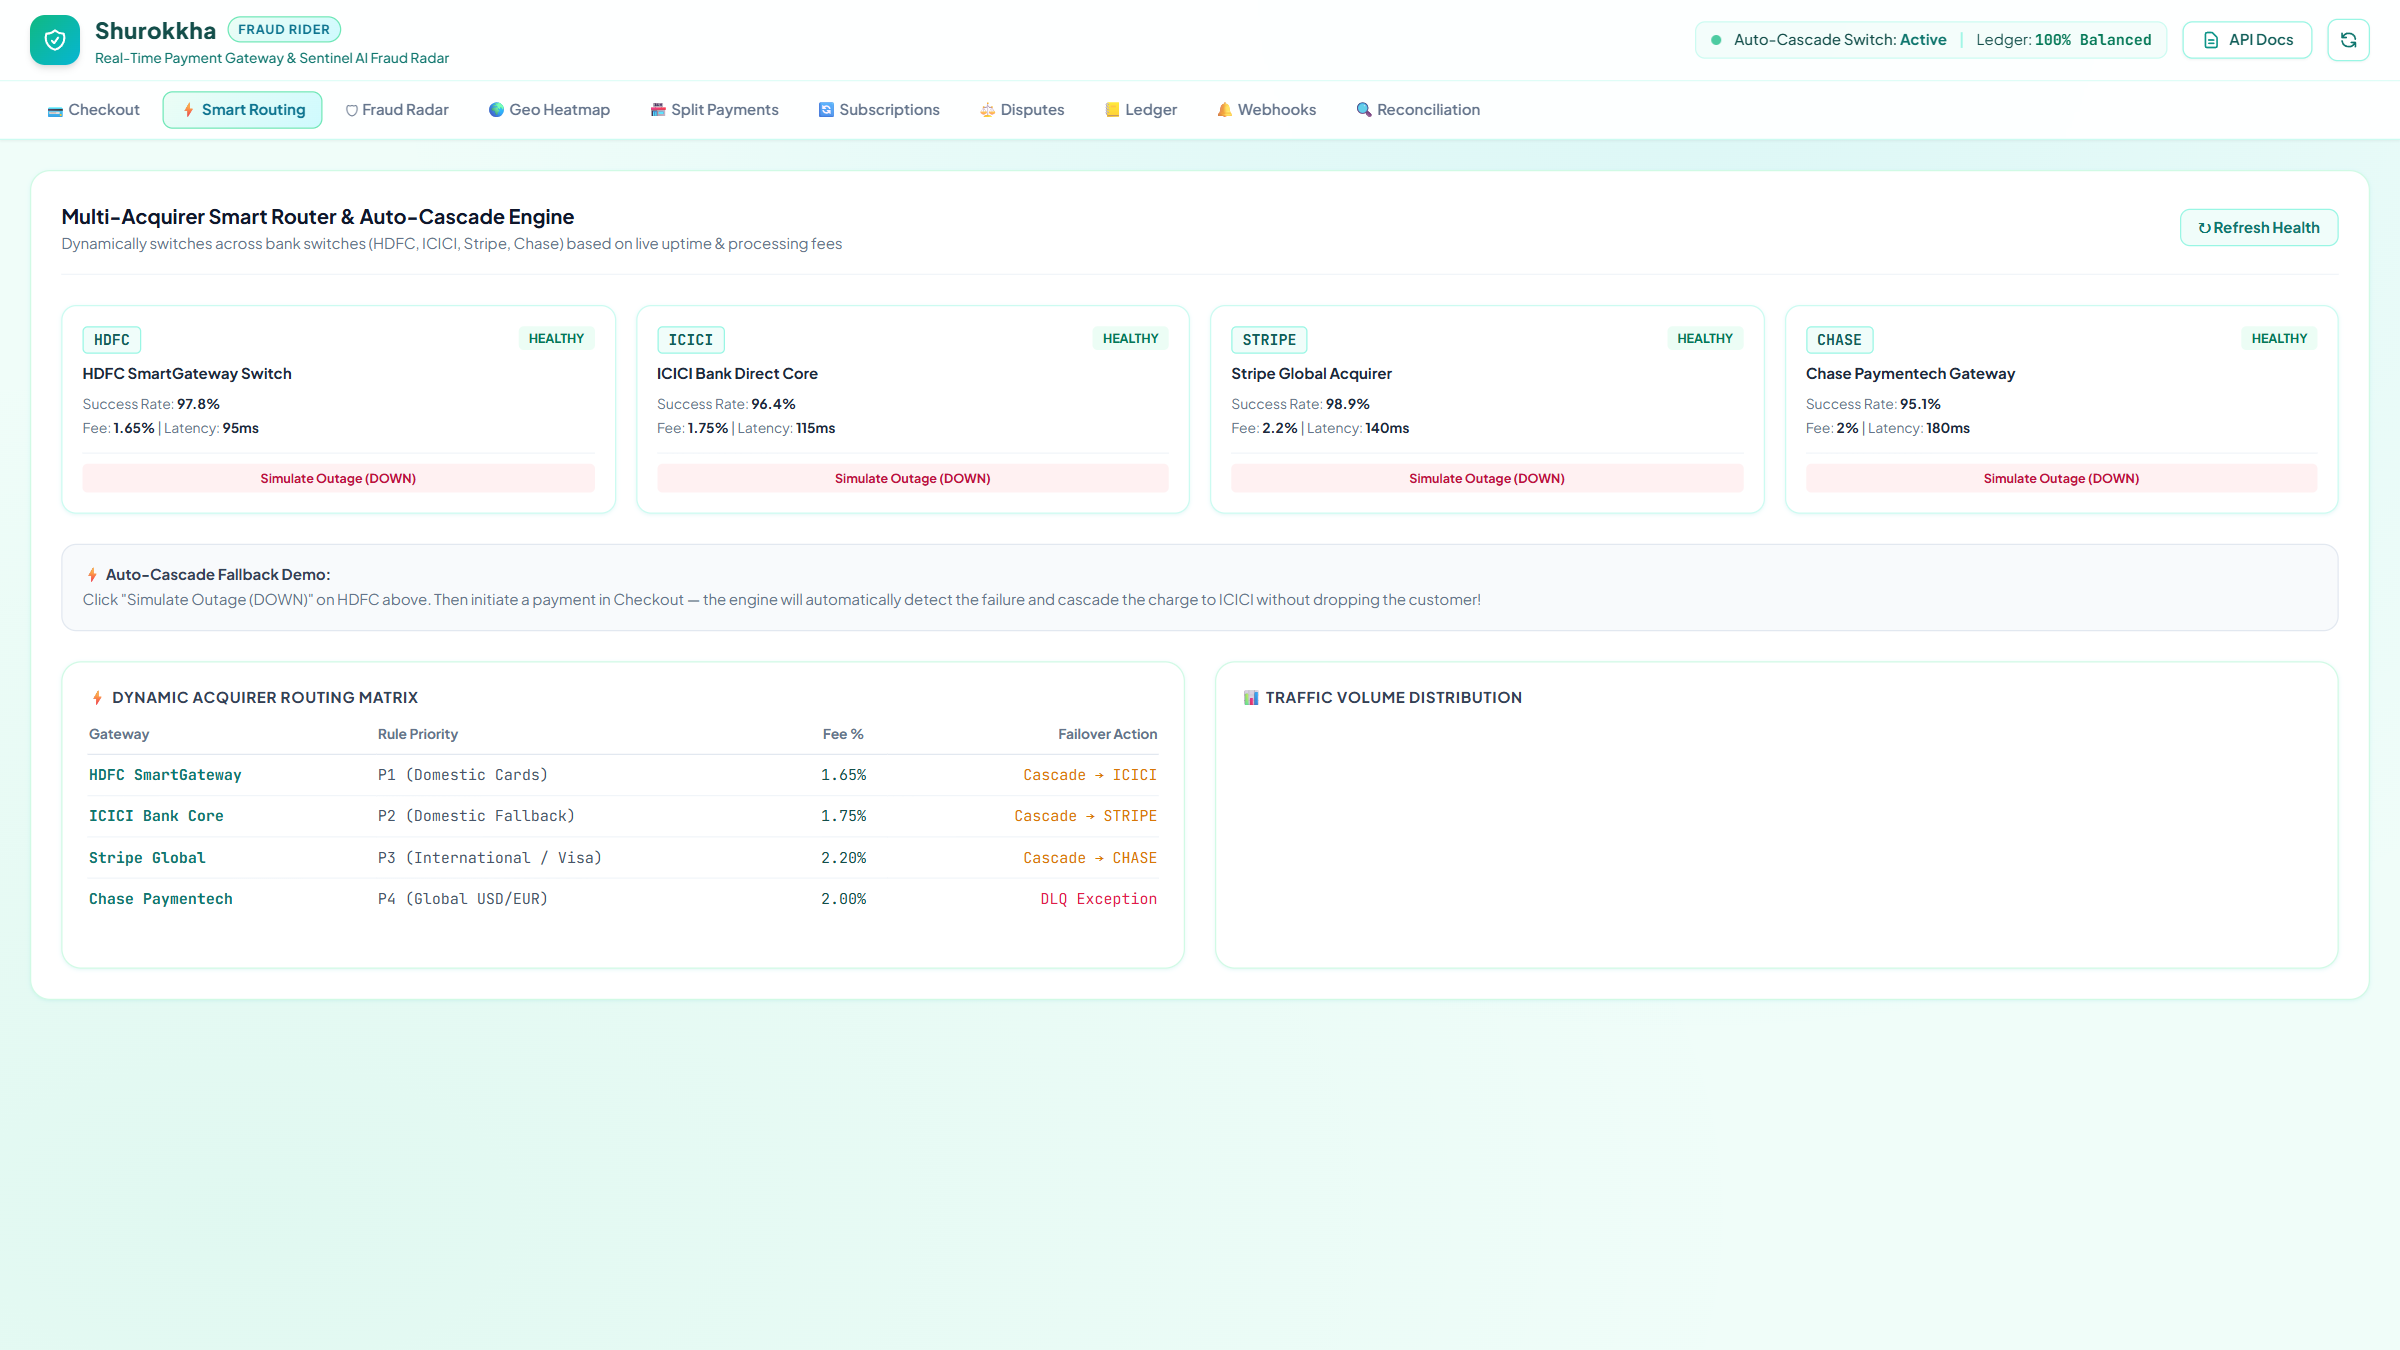
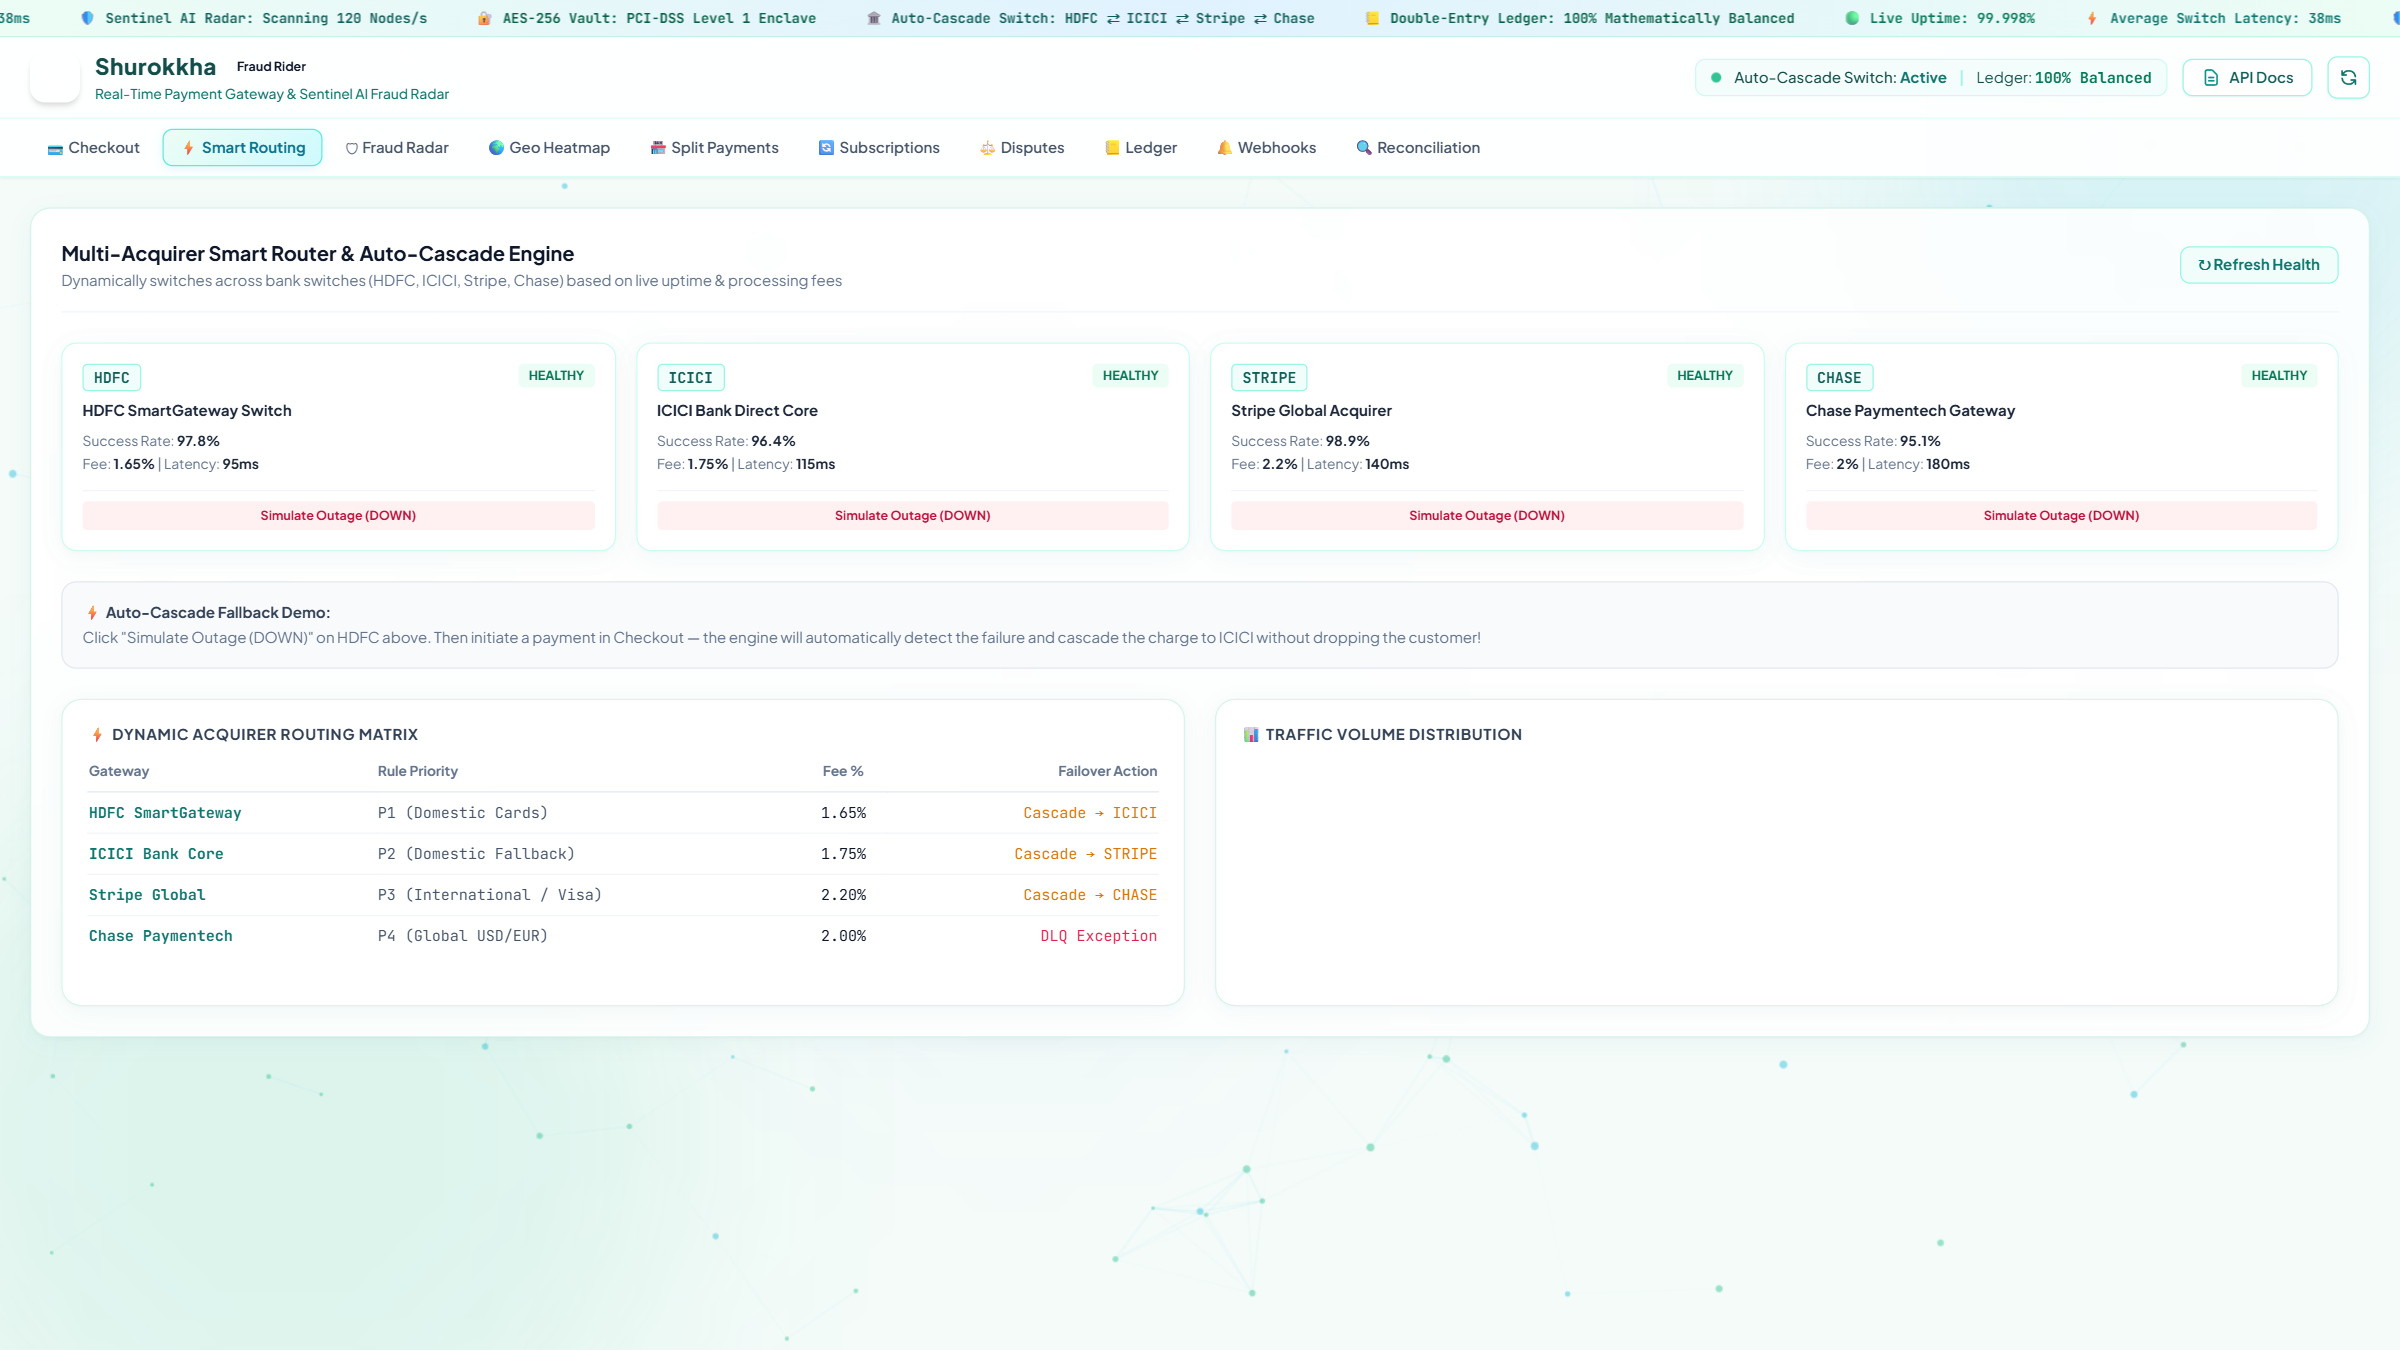
feat(ui): add interactive living particle mesh background, ambient floating gradient orbs, live infrastructure ticker, and bespoke glass surfaces

diff --git a/frontend/index.html b/frontend/index.html
@@ -77,134 +77,174 @@
   </script>
 
     <style>
-    /* === SHUROKKHA — Mint Green + Sky Blue Premium Light Theme === */
-
-    /* Base */
-    body {
-      background-color: #F0FDF9;
-      background-image:
-        radial-gradient(ellipse at 70% 0%, rgba(6,182,212,0.09) 0%, transparent 55%),
-        radial-gradient(ellipse at 10% 90%, rgba(16,185,129,0.07) 0%, transparent 50%);
-      color: #134E4A;
-      font-family: 'Plus Jakarta Sans', sans-serif;
+    /* === SHUROKKHA BESPOKE FINTECH LIGHT SUITE === */
+    :root {
+      --primary-mint: #10B981;
+      --primary-cyan: #06B6D4;
+      --primary-teal: #0F766E;
+      --bg-ice: #F0FDF9;
     }
 
-    /* Cards */
+    body {
+      background-color: #F4FBF9;
+      color: #0F172A;
+      font-family: 'Plus Jakarta Sans', sans-serif;
+      overflow-x: hidden;
+      position: relative;
+    }
+
+    /* Living Ambient Background Mesh Canvas */
+    #bg-mesh-canvas {
+      position: fixed;
+      top: 0;
+      left: 0;
+      width: 100vw;
+      height: 100vh;
+      pointer-events: none;
+      z-index: 0;
+      opacity: 0.65;
+    }
+
+    /* Floating Ambient Gradient Orbs */
+    .ambient-orb {
+      position: fixed;
+      border-radius: 9999px;
+      filter: blur(80px);
+      pointer-events: none;
+      z-index: 0;
+      animation: orbFloat 18s ease-in-out infinite alternate;
+    }
+    .orb-1 { width: 500px; height: 500px; background: rgba(6, 182, 212, 0.12); top: -100px; right: -50px; }
+    .orb-2 { width: 600px; height: 600px; background: rgba(16, 185, 129, 0.10); bottom: -150px; left: -100px; animation-duration: 24s; }
+    .orb-3 { width: 400px; height: 400px; background: rgba(99, 102, 241, 0.06); top: 40%; left: 30%; animation-duration: 20s; }
+
+    @keyframes orbFloat {
+      0% { transform: translate(0, 0) scale(1); }
+      50% { transform: translate(40px, -30px) scale(1.08); }
+      100% { transform: translate(-30px, 40px) scale(0.95); }
+    }
+
+    /* Bespoke Glass Cards with Hairline Highlighting */
     .light-card {
-      background: #FFFFFF;
-      border: 1px solid #D1FAE5;
-      box-shadow: 0 1px 4px rgba(6,182,212,0.07), 0 1px 2px rgba(16,185,129,0.04);
-      transition: box-shadow 0.2s ease, border-color 0.2s ease;
+      background: rgba(255, 255, 255, 0.88);
+      backdrop-filter: blur(16px);
+      -webkit-backdrop-filter: blur(16px);
+      border: 1px solid rgba(16, 185, 129, 0.16);
+      box-shadow: 
+        inset 0 1px 0 rgba(255, 255, 255, 0.95),
+        0 4px 20px -2px rgba(15, 118, 110, 0.05),
+        0 1px 3px rgba(0, 0, 0, 0.02);
+      border-radius: 1.25rem;
+      position: relative;
+      transition: all 0.25s cubic-bezier(0.16, 1, 0.3, 1);
     }
     .light-card:hover {
-      border-color: #6EE7B7;
-      box-shadow: 0 4px 20px rgba(6,182,212,0.11), 0 2px 8px rgba(16,185,129,0.07);
+      border-color: rgba(6, 182, 212, 0.38);
+      box-shadow: 
+        inset 0 1px 0 rgba(255, 255, 255, 1),
+        0 12px 32px -4px rgba(6, 182, 212, 0.12),
+        0 4px 12px rgba(16, 185, 129, 0.06);
+      transform: translateY(-2px);
     }
-    .light-card-elevated {
-      background: #FFFFFF;
-      border: 1px solid #CFFAFE;
-      box-shadow: 0 4px 24px -4px rgba(6,182,212,0.15), 0 2px 8px rgba(16,185,129,0.07);
+
+    /* Live Activity Marquee Ticker */
+    .ticker-wrap {
+      overflow: hidden;
+      white-space: nowrap;
+      background: linear-gradient(90deg, #ECFDF5 0%, #E0F2FE 50%, #ECFDF5 100%);
+      border-bottom: 1px solid rgba(110, 231, 183, 0.4);
+    }
+    .ticker-content {
+      display: inline-block;
+      animation: ticker 32s linear infinite;
+    }
+    @keyframes ticker {
+      0% { transform: translateX(0); }
+      100% { transform: translateX(-50%); }
     }
 
     /* Inputs */
     .light-input {
-      background: #F0FDFA;
-      border: 1.5px solid #A7F3D0;
-      color: #134E4A;
+      background: rgba(240, 253, 250, 0.7);
+      border: 1.5px solid rgba(167, 243, 208, 0.8);
+      color: #0F172A;
+      font-weight: 500;
       transition: all 0.18s ease;
     }
     .light-input:focus {
       background: #FFFFFF;
       border-color: #06B6D4;
-      box-shadow: 0 0 0 3px rgba(6,182,212,0.13);
+      box-shadow: 0 0 0 3.5px rgba(6, 182, 212, 0.16);
       outline: none;
     }
-    .light-input::placeholder { color: #6EE7B7; }
 
-    /* Nav Tabs */
-    .nav-tab {
-      transition: all 0.15s ease;
-      color: #64748B;
-      font-weight: 600;
-      white-space: nowrap;
-    }
-    .nav-tab:hover { color: #0F766E; background: #F0FDF9; }
-    .nav-tab.active {
-      color: #0E7490;
-      background: linear-gradient(135deg, #ECFDF5, #CFFAFE);
-      border: 1px solid #6EE7B7;
-      font-weight: 700;
-    }
-
-    /* Shield Logo — Glassmorphism Mint+Cyan */
-    .shield-logo {
-      background: linear-gradient(135deg, #10B981 0%, #06B6D4 100%);
-      box-shadow: 0 4px 16px rgba(6,182,212,0.35), 0 0 0 2px rgba(255,255,255,0.5) inset;
-    }
-
-    /* Bank card preview — deep teal premium */
-    .credit-card-preview {
-      background: linear-gradient(135deg, #042f2e 0%, #065f46 55%, #0e7490 100%);
-      box-shadow: 0 20px 40px -6px rgba(6,182,212,0.38), 0 4px 12px rgba(16,185,129,0.22);
-      border: 1px solid rgba(110,231,183,0.22);
-    }
-
-    /* Scrollbar */
-    ::-webkit-scrollbar { width: 5px; height: 5px; }
-    ::-webkit-scrollbar-track { background: transparent; }
-    ::-webkit-scrollbar-thumb { background: #A7F3D0; border-radius: 6px; }
-    ::-webkit-scrollbar-thumb:hover { background: #34D399; }
-
-    /* Risk Badges */
-    .badge-allow     { background: #ECFDF5; color: #065F46; border: 1px solid #6EE7B7; font-weight: 700; }
-    .badge-challenge { background: #FFFBEB; color: #92400E; border: 1px solid #FDE68A; font-weight: 700; }
-    .badge-block     { background: #FFF1F2; color: #9F1239; border: 1px solid #FECDD3; font-weight: 700; }
-
-    /* Spinner */
-    .spinner-sm {
-      border: 2px solid #D1FAE5;
-      border-top-color: #06B6D4;
-      border-radius: 50%;
-      width: 15px; height: 15px;
-      animation: spin 0.55s linear infinite;
-      flex-shrink: 0;
-    }
-    @keyframes spin { to { transform: rotate(360deg); } }
-
-    /* Dividers */
-    hr, .border-b { border-color: #ECFDF5; }
-
-    /* Table hover */
-    tbody tr:hover td { background: #F0FDFA; transition: background 0.1s ease; }
-
-    /* Primary button — Mint to Cyan gradient glow */
+    /* Primary Mint-to-Cyan Button with Glow */
     .btn-mint {
-      background: linear-gradient(135deg, #10B981, #06B6D4);
+      background: linear-gradient(135deg, #10B981 0%, #06B6D4 100%);
       color: #FFFFFF;
       font-weight: 700;
       letter-spacing: 0.02em;
-      box-shadow: 0 4px 14px rgba(6,182,212,0.32);
-      transition: all 0.15s ease;
+      box-shadow: 0 4px 14px rgba(6, 182, 212, 0.32), inset 0 1px 0 rgba(255, 255, 255, 0.25);
+      transition: all 0.2s cubic-bezier(0.16, 1, 0.3, 1);
     }
     .btn-mint:hover {
-      box-shadow: 0 6px 22px rgba(6,182,212,0.46);
-      transform: translateY(-1px);
+      box-shadow: 0 8px 26px rgba(6, 182, 212, 0.48), inset 0 1px 0 rgba(255, 255, 255, 0.4);
+      transform: translateY(-1.5px) scale(1.005);
     }
     .btn-mint:active { transform: scale(0.985); }
 
-    /* Soft glow pill badge for "Enterprise" */
-    .enterprise-pill {
-      background: linear-gradient(135deg, #ECFDF5, #CFFAFE);
+    /* Luxury Credit Card */
+    .credit-card-preview {
+      background: linear-gradient(135deg, #022c22 0%, #064e3b 50%, #083344 100%);
+      box-shadow: 0 24px 48px -8px rgba(6, 182, 212, 0.35), 0 8px 16px rgba(16, 185, 129, 0.2);
+      border: 1px solid rgba(110, 231, 183, 0.28);
+    }
+
+    /* Tab Switcher Pills */
+    .nav-tab {
+      transition: all 0.18s ease;
+      color: #475569;
+      font-weight: 600;
+      white-space: nowrap;
+    }
+    .nav-tab:hover {
+      color: #0F766E;
+      background: rgba(240, 253, 250, 0.9);
+    }
+    .nav-tab.active {
       color: #0E7490;
-      border: 1px solid #6EE7B7;
-      font-size: 10px;
+      background: linear-gradient(135deg, #ECFDF5 0%, #CFFAFE 100%);
+      border: 1px solid #5EEAD4;
+      box-shadow: 0 2px 8px rgba(6, 182, 212, 0.12);
       font-weight: 700;
-      letter-spacing: 0.08em;
-      text-transform: uppercase;
     }
   </style>
 </head>
-<body class="min-h-screen flex flex-col antialiased" style="background-color:#F0FDF9">
+<body class="min-h-screen flex flex-col antialiased">
+
+  <!-- Interactive Particle Mesh Canvas & Ambient Orbs -->
+  <canvas id="bg-mesh-canvas"></canvas>
+  <div class="ambient-orb orb-1"></div>
+  <div class="ambient-orb orb-2"></div>
+  <div class="ambient-orb orb-3"></div>
+
+  <!-- Real-Time Infrastructure Ticker -->
+  <div class="ticker-wrap py-1.5 px-4 text-[11px] font-mono font-semibold text-teal-900 flex items-center justify-between z-40 relative">
+    <div class="ticker-content space-x-8">
+      <span>🟢 <strong class="text-emerald-700">Live Uptime: 99.998%</strong></span>
+      <span>⚡ <strong class="text-teal-700">Average Switch Latency: 38ms</strong></span>
+      <span>🛡 <strong class="text-teal-800">Sentinel AI Radar: Scanning 120 Nodes/s</strong></span>
+      <span>🔐 <strong class="text-emerald-800">AES-256 Vault: PCI-DSS Level 1 Enclave</strong></span>
+      <span>🏛 <strong class="text-teal-800">Auto-Cascade Switch: HDFC ⇄ ICICI ⇄ Stripe ⇄ Chase</strong></span>
+      <span>📒 <strong class="text-emerald-800">Double-Entry Ledger: 100% Mathematically Balanced</strong></span>
+      <!-- Repeated for seamless loop -->
+      <span>🟢 <strong class="text-emerald-700">Live Uptime: 99.998%</strong></span>
+      <span>⚡ <strong class="text-teal-700">Average Switch Latency: 38ms</strong></span>
+      <span>🛡 <strong class="text-teal-800">Sentinel AI Radar: Scanning 120 Nodes/s</strong></span>
+      <span>🔐 <strong class="text-emerald-800">AES-256 Vault: PCI-DSS Level 1 Enclave</strong></span>
+      <span>🏛 <strong class="text-teal-800">Auto-Cascade Switch: HDFC ⇄ ICICI ⇄ Stripe ⇄ Chase</strong></span>
+    </div>
+  </div>
 
   <!-- TOP APP BAR -->
   <header class="border-b border-teal-100 bg-white/95 backdrop-blur-sm sticky top-0 z-50 shadow-sm">
@@ -1720,5 +1760,99 @@
       </div>
     </div>
   </div>
+<script>
+
+    // Living Interactive Mesh Background Script
+    (function initBackgroundCanvas() {
+      const canvas = document.getElementById('bg-mesh-canvas');
+      if (!canvas) return;
+      const ctx = canvas.getContext('2d');
+      let w, h;
+      let mouse = { x: null, y: null, radius: 160 };
+
+      function resize() {
+        w = canvas.width = window.innerWidth;
+        h = canvas.height = window.innerHeight;
+      }
+      resize();
+      window.addEventListener('resize', resize);
+
+      window.addEventListener('mousemove', (e) => {
+        mouse.x = e.clientX;
+        mouse.y = e.clientY;
+      });
+      window.addEventListener('mouseleave', () => {
+        mouse.x = null;
+        mouse.y = null;
+      });
+
+      // Nodes
+      const nodeCount = Math.floor((window.innerWidth * window.innerHeight) / 18000);
+      const nodes = [];
+      for (let i = 0; i < nodeCount; i++) {
+        nodes.push({
+          x: Math.random() * w,
+          y: Math.random() * h,
+          vx: (Math.random() - 0.5) * 0.45,
+          vy: (Math.random() - 0.5) * 0.45,
+          r: Math.random() * 2 + 1.2,
+          color: Math.random() > 0.4 ? 'rgba(16, 185, 129, ' : 'rgba(6, 182, 212, '
+        });
+      }
+
+      function animate() {
+        ctx.clearRect(0, 0, w, h);
+
+        // Draw connections
+        for (let i = 0; i < nodes.length; i++) {
+          for (let j = i + 1; j < nodes.length; j++) {
+            const dx = nodes[i].x - nodes[j].x;
+            const dy = nodes[i].y - nodes[j].y;
+            const dist = Math.sqrt(dx * dx + dy * dy);
+
+            if (dist < 130) {
+              const alpha = (1 - dist / 130) * 0.22;
+              ctx.strokeStyle = `rgba(6, 182, 212, ${alpha})`;
+              ctx.lineWidth = 0.8;
+              ctx.beginPath();
+              ctx.moveTo(nodes[i].x, nodes[i].y);
+              ctx.lineTo(nodes[j].x, nodes[j].y);
+              ctx.stroke();
+            }
+          }
+        }
+
+        // Draw and update nodes
+        nodes.forEach(n => {
+          n.x += n.vx;
+          n.y += n.vy;
+
+          if (n.x < 0 || n.x > w) n.vx *= -1;
+          if (n.y < 0 || n.y > h) n.vy *= -1;
+
+          // Mouse interaction (gentle repel)
+          if (mouse.x !== null) {
+            const dx = n.x - mouse.x;
+            const dy = n.y - mouse.y;
+            const dist = Math.sqrt(dx * dx + dy * dy);
+            if (dist < mouse.radius) {
+              const force = (1 - dist / mouse.radius) * 1.5;
+              n.x += (dx / dist) * force;
+              n.y += (dy / dist) * force;
+            }
+          }
+
+          ctx.beginPath();
+          ctx.arc(n.x, n.y, n.r, 0, Math.PI * 2);
+          ctx.fillStyle = n.color + '0.6)';
+          ctx.fill();
+        });
+
+        requestAnimationFrame(animate);
+      }
+      animate();
+    })();
+
+</script>
 </body>
 </html>
